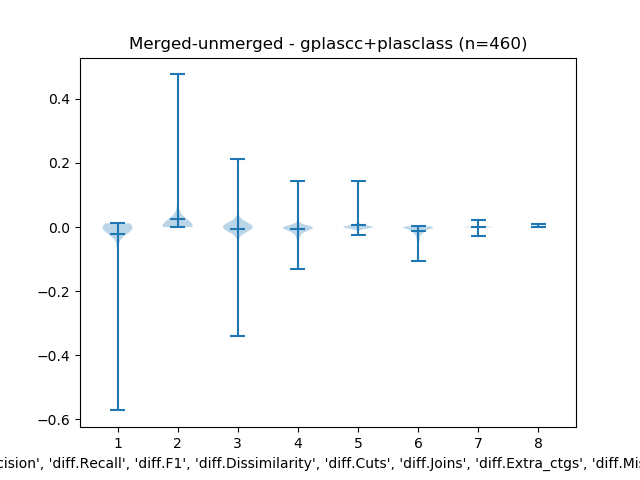
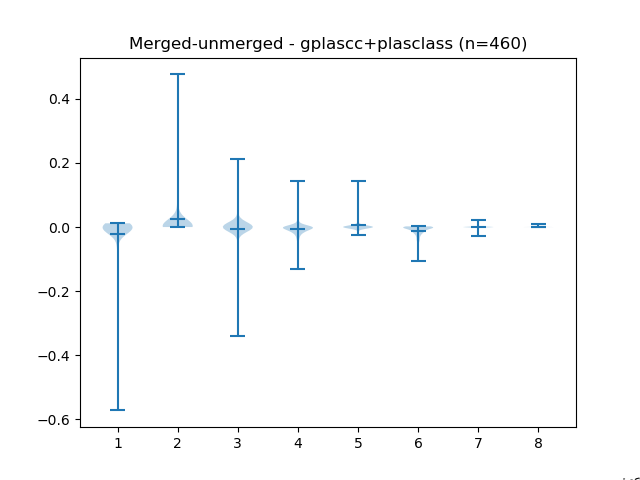
difference figures

diff --git a/exp_20250802/analysis_utils.py b/exp_20250802/analysis_utils.py
@@ -366,7 +366,7 @@ def create_unmerged_vs_merged_difference_boxplot(
     nb_data_points = plot_df.shape[0]
     #plot_df.plot.box(grid=True, rot=15)
     plt.violinplot(plot_data, showmeans=True)
-    plt.xlabel(diff_cols)
+    plt.xlabel(diff_cols, rotation=15)
     plt.title(f"{out_title} (n={nb_data_points})")
     plt.savefig(out_file)
             
